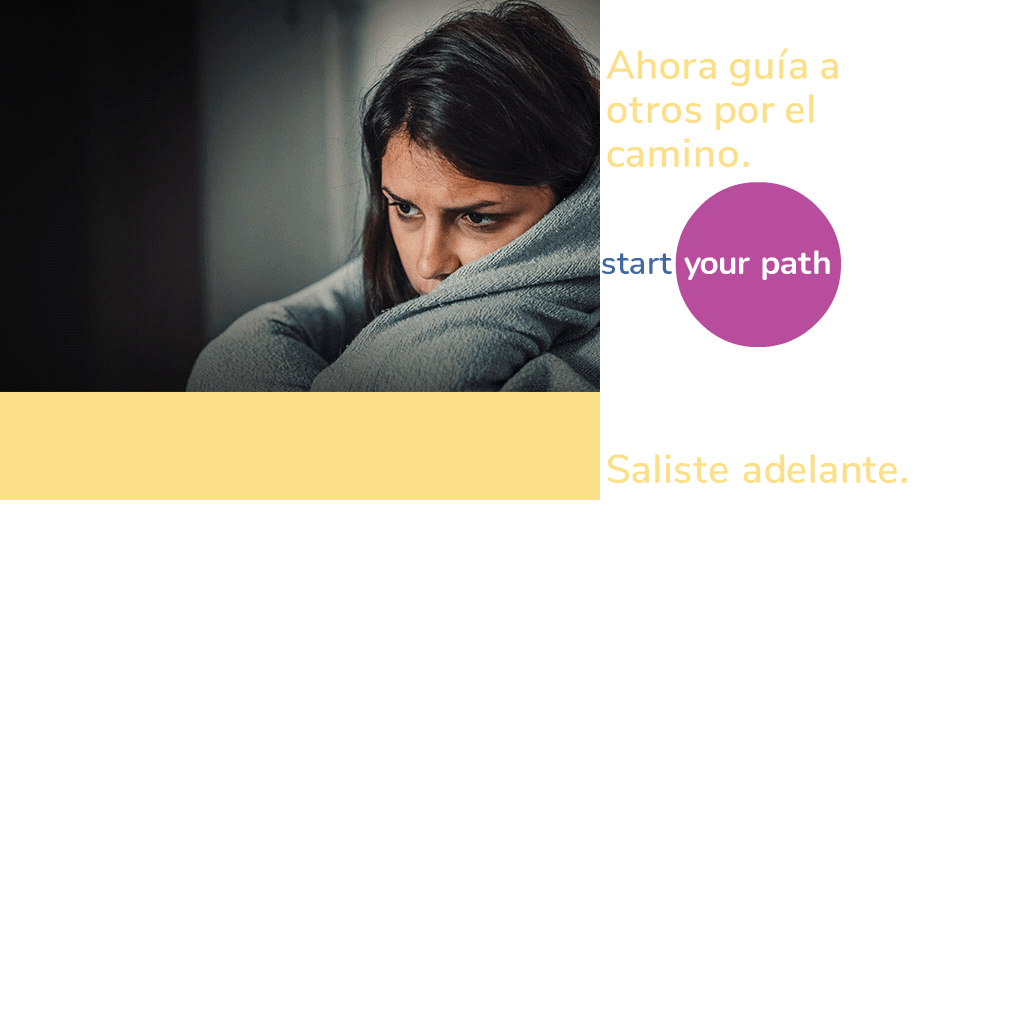
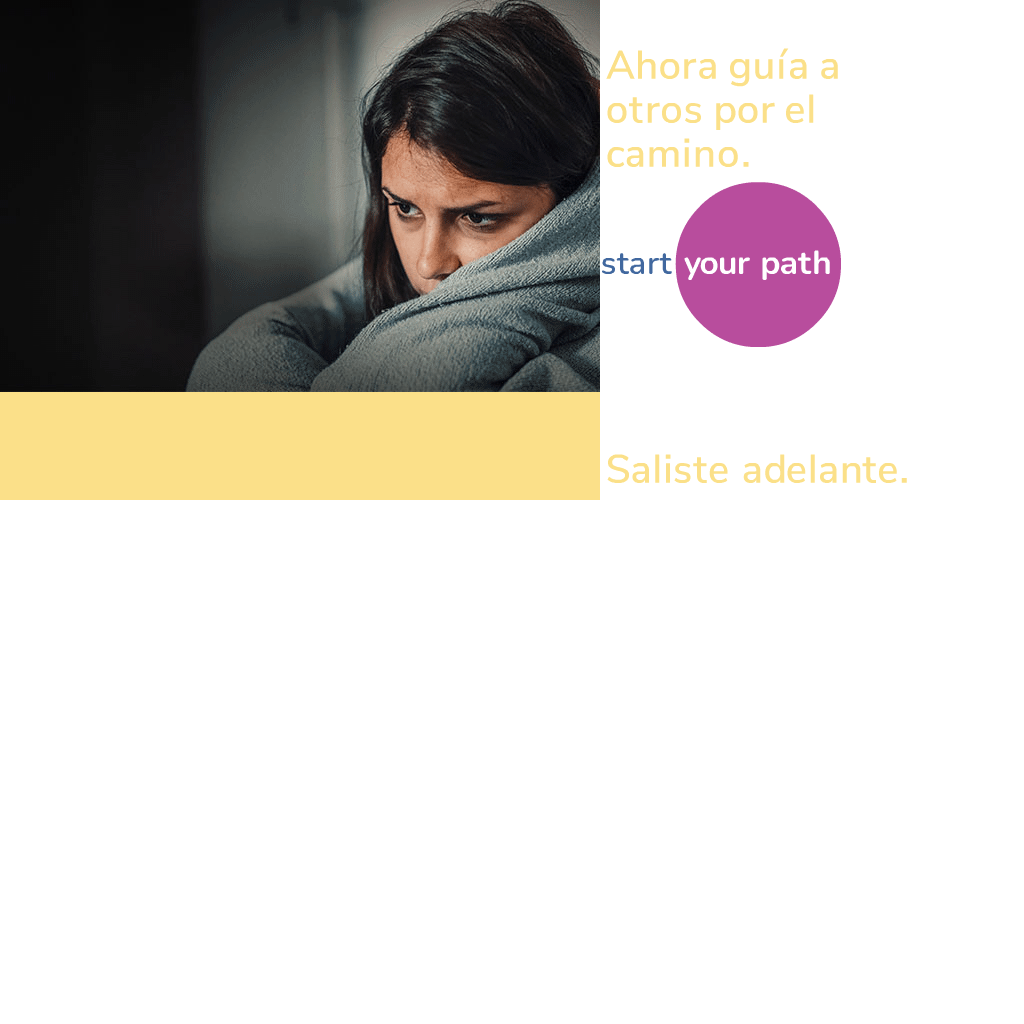
Add files via upload

Changed region(s): [[0.1875, 0.2188, 0.375, 0.3438]]

diff --git a/madeitout-spn/300x250/HCA-MadeItOut-spn-300x250.js b/madeitout-spn/300x250/HCA-MadeItOut-spn-300x250.js
@@ -27,35 +27,35 @@ lib.ssMetadata = [
 
 
 
-(lib.CachedBmp_10 = function() {
+(lib.CachedBmp_5 = function() {
 	this.initialize(ss["HCA_MadeItOut_spn_300x250_atlas_1"]);
 	this.gotoAndStop(0);
 }).prototype = p = new cjs.Sprite();
 
 
 
-(lib.CachedBmp_9 = function() {
+(lib.CachedBmp_4 = function() {
 	this.initialize(ss["HCA_MadeItOut_spn_300x250_atlas_1"]);
 	this.gotoAndStop(1);
 }).prototype = p = new cjs.Sprite();
 
 
 
-(lib.CachedBmp_8 = function() {
+(lib.CachedBmp_3 = function() {
 	this.initialize(ss["HCA_MadeItOut_spn_300x250_atlas_1"]);
 	this.gotoAndStop(2);
 }).prototype = p = new cjs.Sprite();
 
 
 
-(lib.CachedBmp_7 = function() {
+(lib.CachedBmp_2 = function() {
 	this.initialize(ss["HCA_MadeItOut_spn_300x250_atlas_1"]);
 	this.gotoAndStop(3);
 }).prototype = p = new cjs.Sprite();
 
 
 
-(lib.CachedBmp_6 = function() {
+(lib.CachedBmp_1 = function() {
 	this.initialize(ss["HCA_MadeItOut_spn_300x250_atlas_1"]);
 	this.gotoAndStop(4);
 }).prototype = p = new cjs.Sprite();
@@ -97,7 +97,7 @@ if (reversed == null) { reversed = false; }
 	cjs.MovieClip.apply(this,[props]);
 
 	// SYP_logo_RGB_bold.svg
-	this.instance = new lib.CachedBmp_10();
+	this.instance = new lib.CachedBmp_5();
 	this.instance.setTransform(0,0,0.5,0.5);
 
 	this.timeline.addTween(cjs.Tween.get(this.instance).wait(1));
@@ -120,7 +120,7 @@ if (reversed == null) { reversed = false; }
 	cjs.MovieClip.apply(this,[props]);
 
 	// Layer_2
-	this.instance = new lib.CachedBmp_9();
+	this.instance = new lib.CachedBmp_4();
 	this.instance.setTransform(0,0,0.5,0.5);
 
 	this.timeline.addTween(cjs.Tween.get(this.instance).wait(1));
@@ -142,7 +142,7 @@ if (reversed == null) { reversed = false; }
 	cjs.MovieClip.apply(this,[props]);
 
 	// Layer_2
-	this.instance = new lib.CachedBmp_8();
+	this.instance = new lib.CachedBmp_3();
 	this.instance.setTransform(0,0,0.5,0.5);
 
 	this.timeline.addTween(cjs.Tween.get(this.instance).wait(1));
@@ -164,7 +164,7 @@ if (reversed == null) { reversed = false; }
 	cjs.MovieClip.apply(this,[props]);
 
 	// Layer_2
-	this.instance = new lib.CachedBmp_7();
+	this.instance = new lib.CachedBmp_2();
 	this.instance.setTransform(0,0,0.5,0.5);
 
 	this.timeline.addTween(cjs.Tween.get(this.instance).wait(1));
@@ -186,7 +186,7 @@ if (reversed == null) { reversed = false; }
 	cjs.MovieClip.apply(this,[props]);
 
 	// type
-	this.instance = new lib.CachedBmp_6();
+	this.instance = new lib.CachedBmp_1();
 	this.instance.setTransform(-45.15,-9.6,0.4167,0.4167);
 
 	this.timeline.addTween(cjs.Tween.get(this.instance).wait(1));
